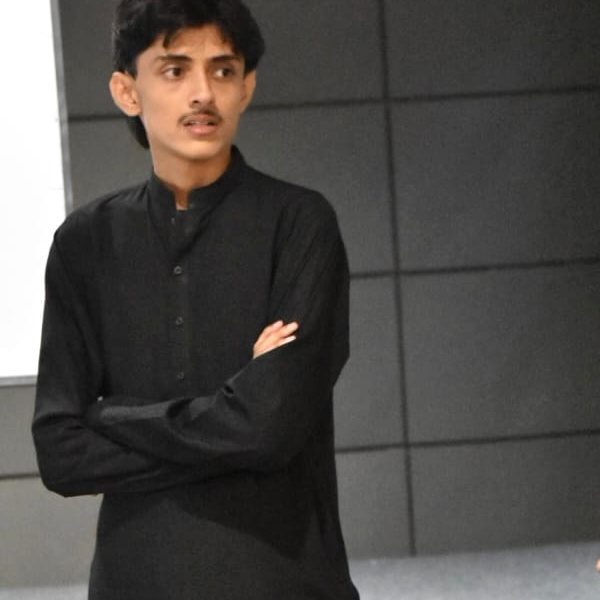
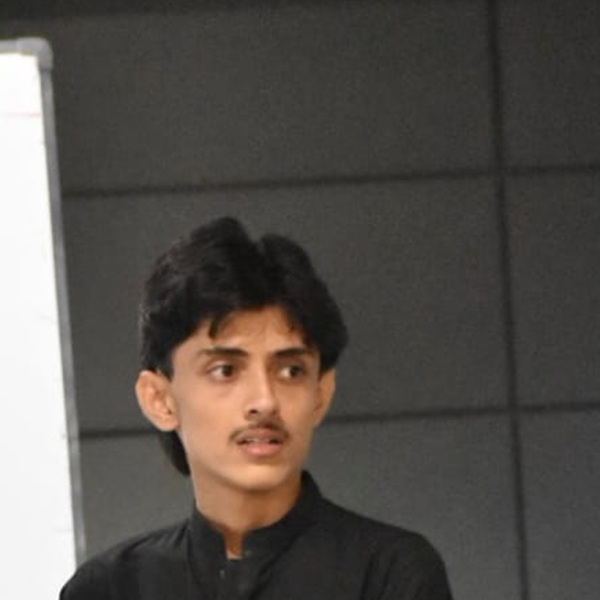
edited wb

diff --git a/src/components/ui/GlidingWhatsApp.tsx b/src/components/ui/GlidingWhatsApp.tsx
@@ -5,16 +5,16 @@ import { siteConfig } from "@/data/site";
 
 export const GlidingWhatsApp: React.FC = () => {
   const [isHovered, setIsHovered] = useState(false);
-  const whatsappNumber = siteConfig.donation.jazzcash.rawNumber; // 03075615688
-  const internationalNumber = "92" + whatsappNumber.replace(/^0/, "");
+  // Extract digits for wa.me format (e.g., "923701972002")
+  const rawNumber = siteConfig.contact.whatsapp.replace(/[^0-9]/g, "") || "923701972002";
   const defaultMessage = encodeURIComponent(
     "Assalam-o-Alaikum! I would like to get in touch with Ta'meer-e-Rekhta."
   );
-  const whatsappUrl = `https://wa.me/${internationalNumber}?text=${defaultMessage}`;
+  const whatsappUrl = `https://wa.me/${rawNumber}?text=${defaultMessage}`;
 
   return (
     <div
-      className="fixed bottom-6 right-6 z-50 flex items-center gap-3"
+      className="fixed bottom-6 right-6 z-50 flex items-center gap-3 select-none"
       onMouseEnter={() => setIsHovered(true)}
       onMouseLeave={() => setIsHovered(false)}
     >
@@ -23,14 +23,20 @@ export const GlidingWhatsApp: React.FC = () => {
         href={whatsappUrl}
         target="_blank"
         rel="noopener noreferrer"
-        className={`hidden sm:inline-flex items-center gap-2 px-3.5 py-2 rounded-full bg-white text-gray-800 text-xs font-semibold shadow-lg border border-emerald-100 transition-all duration-300 transform ${
+        className={`hidden sm:inline-flex items-center gap-2.5 px-4 py-2.5 rounded-full bg-white text-gray-800 text-xs font-semibold shadow-xl border border-emerald-100 transition-all duration-300 transform hover:shadow-2xl hover:border-emerald-300 ${
           isHovered
-            ? "opacity-100 translate-x-0"
+            ? "opacity-100 translate-x-0 scale-100"
             : "opacity-90 -translate-x-1 hover:translate-x-0"
         }`}
+        aria-label="Chat on WhatsApp"
       >
-        <span className="w-2 h-2 rounded-full bg-emerald-500 animate-ping" />
-        <span>Chat with us on WhatsApp</span>
+        <span className="relative flex h-2.5 w-2.5">
+          <span className="animate-ping absolute inline-flex h-full w-full rounded-full bg-emerald-400 opacity-75" />
+          <span className="relative inline-flex rounded-full h-2.5 w-2.5 bg-emerald-500" />
+        </span>
+        <span className="text-gray-700 font-semibold tracking-wide">
+          Chat with us on WhatsApp
+        </span>
       </a>
 
       {/* Floating Gliding Button */}
@@ -39,21 +45,27 @@ export const GlidingWhatsApp: React.FC = () => {
         target="_blank"
         rel="noopener noreferrer"
         aria-label="Chat with Ta'meer-e-Rekhta on WhatsApp"
-        className="relative group flex items-center justify-center w-14 h-14 rounded-full bg-[#25D366] text-white shadow-xl shadow-emerald-500/30 hover:shadow-emerald-500/50 hover:bg-[#20bd5a] transition-all duration-300 transform hover:scale-110 active:scale-95 animate-[glide_3s_ease-in-out_infinite]"
+        className="relative group flex items-center justify-center w-14 h-14 sm:w-15 sm:h-15 rounded-full bg-gradient-to-tr from-[#20bd5a] to-[#25D366] text-white shadow-xl shadow-emerald-500/40 hover:shadow-emerald-500/60 hover:from-[#1eb856] hover:to-[#22c75e] transition-all duration-300 transform hover:scale-110 active:scale-95 animate-glide"
         style={{
-          boxShadow: "0 10px 25px -5px rgba(37, 211, 102, 0.45)",
+          boxShadow: "0 10px 25px -4px rgba(37, 211, 102, 0.5), 0 4px 10px -2px rgba(37, 211, 102, 0.3)",
         }}
       >
         {/* Radar wave pulse ring */}
-        <span className="absolute -inset-1 rounded-full bg-[#25D366]/30 animate-ping pointer-events-none" />
+        <span className="absolute -inset-1 rounded-full bg-[#25D366]/30 animate-ping opacity-60 pointer-events-none" />
 
-        {/* Official WhatsApp SVG Logo */}
+        {/* Clean Official WhatsApp SVG Logo */}
         <svg
-          className="w-7 h-7 fill-current relative z-10"
+          className="w-7 h-7 sm:w-8 sm:h-8 fill-white relative z-10 transition-transform duration-300 group-hover:scale-105 drop-shadow-sm"
           viewBox="0 0 24 24"
+          fill="none"
           xmlns="http://www.w3.org/2000/svg"
         >
-          <path d="M17.507 14.307l-.009.075c-2.399-1.2-2.882-1.352-3.32-1.298-.43.053-.941.597-1.157.843-.215.247-.43.275-.788.106-.358-.17-1.512-.558-2.879-1.777-1.065-.95-1.785-2.126-1.996-2.485-.212-.359-.022-.553.157-.731.162-.16.358-.415.538-.623.18-.208.24-.356.359-.594.119-.239.06-.447-.03-.624-.089-.178-.797-1.921-1.093-2.632-.288-.693-.58-.598-.797-.609-.206-.01-.443-.012-.68-.012-.238 0-.623.089-.95.446-.326.357-1.248 1.22-1.248 2.975 0 1.755 1.277 3.45 1.456 3.69.179.239 2.513 3.839 6.089 5.383.851.368 1.516.588 2.034.752.855.271 1.633.233 2.248.141.686-.103 2.11-.862 2.408-1.695.297-.833.297-1.547.208-1.696-.088-.148-.327-.238-.685-.417zM12.012 21.84c-1.786 0-3.535-.48-5.067-1.39l-.364-.216-3.763.987 1.004-3.666-.237-.377A9.799 9.799 0 0 1 2.2 12.04c0-5.424 4.41-9.835 9.833-9.835 2.628 0 5.099 1.025 6.957 2.884 1.858 1.86 2.88 4.33 2.878 6.96-.002 5.425-4.414 9.791-9.856 9.791zm0-18.34C6.54 3.5 2.054 7.986 2.054 13.457c0 1.95.566 3.767 1.547 5.305l-1.601 5.85 5.986-1.571a9.88 9.88 0 0 0 4.026.859c5.472 0 9.957-4.485 9.957-9.956 0-2.66-1.036-5.16-2.918-7.042C17.168 4.02 14.672 3.5 12.012 3.5z" />
+          <path
+            fillRule="evenodd"
+            clipRule="evenodd"
+            d="M12.04 2C6.58 2 2.13 6.45 2.13 11.91C2.13 13.66 2.59 15.36 3.45 16.86L2.05 22L7.3 20.63C8.75 21.41 10.38 21.82 12.04 21.82C17.5 21.82 21.95 17.37 21.95 11.91C21.95 6.45 17.5 2 12.04 2ZM17.63 15.68C17.4 16.33 16.32 16.92 15.78 17C15.29 17.07 14.67 17.1 12.54 16.22C9.82 15.09 8.06 12.33 7.92 12.15C7.79 11.97 6.8 10.65 6.8 9.29C6.8 7.93 7.49 7.27 7.77 6.98C7.99 6.75 8.35 6.65 8.67 6.65C8.77 6.65 8.87 6.65 8.95 6.66C9.21 6.67 9.34 6.69 9.51 7.1C9.72 7.61 10.23 8.86 10.29 8.99C10.36 9.12 10.41 9.29 10.32 9.47C10.24 9.65 10.18 9.73 10.05 9.88C9.92 10.03 9.8 10.14 9.66 10.31C9.51 10.47 9.36 10.64 9.53 10.93C9.7 11.21 10.29 12.17 11.15 12.94C12.26 13.93 13.17 14.25 13.49 14.38C13.74 14.48 14.03 14.46 14.21 14.27C14.44 14.02 14.73 13.61 15.02 13.2C15.22 12.91 15.48 12.87 15.74 12.97C16.01 13.06 17.44 13.77 17.73 13.92C18.03 14.06 18.22 14.14 18.29 14.26C18.36 14.38 18.36 14.94 17.63 15.68Z"
+            fill="currentColor"
+          />
         </svg>
       </a>
     </div>

diff --git a/src/data/site.ts b/src/data/site.ts
@@ -42,8 +42,8 @@ export const siteConfig: SiteConfig = {
     "Ta'meer-e-Rekhta is a passionate youth-led organization working for Urdu Revival, Youth Leadership Events & Welfare of Mankind in Pakistan. We believe in preserving our cultural identity while serving humanity with compassion.",
   contact: {
     email: "taameer.e.rekhta@gmail.com",
-    phone: "0307-5615688",
-    whatsapp: "+92 307 5615688",
+    phone: "+92 370 1972002",
+    whatsapp: "+92 370 1972002",
     address: "Karachi, Pakistan",
     city: "Karachi",
     country: "Pakistan",
@@ -54,7 +54,7 @@ export const siteConfig: SiteConfig = {
     { name: "Instagram", href: "https://instagram.com/tameer_e_rekhta", icon: "Instagram" },
     { name: "Facebook", href: "https://facebook.com", icon: "Facebook" },
     { name: "LinkedIn", href: "https://linkedin.com", icon: "Linkedin" },
-    { name: "WhatsApp", href: "https://wa.me/923075615688", icon: "MessageCircle" },
+    { name: "WhatsApp", href: "https://wa.me/923701972002", icon: "MessageCircle" },
   ],
   donation: {
     jazzcash: {

diff --git a/src/data/team.ts b/src/data/team.ts
@@ -5,6 +5,7 @@ export interface TeamMember {
   category: "founder" | "president" | "core";
   bio: string;
   image: string;
+  imagePosition?: string;
   linkedin?: string;
   twitter?: string;
   email?: string;
@@ -18,7 +19,7 @@ export const founderMember: TeamMember = {
   category: "founder",
   bio: "Visionary founder of Ta'meer-e-Rekhta, dedicated to reviving the Urdu language, nurturing youth leadership, and driving humanitarian welfare across Pakistan.",
   image: "/images/team/zoraiz-ali.jpg",
-  email: "taameer.e.rekhta@gmail.com",
+  email: "zoraizali757@gmail.com",
 };
 
 export const presidentMember: TeamMember = {
@@ -28,7 +29,7 @@ export const presidentMember: TeamMember = {
   category: "president",
   bio: "Leading executive operations and organizational strategy, championing youth empowerment initiatives, community welfare drives, and cultural enrichment.",
   image: "/images/team/hafsa-arif.jpg",
-  email: "taameer.e.rekhta@gmail.com",
+  email: "arifhafsa446@gmail.com",
 };
 
 export const coreTeamMembers: TeamMember[] = [

diff --git a/src/components/donate/DonationSection.tsx b/src/components/donate/DonationSection.tsx
@@ -246,7 +246,7 @@ export default function DonationSection() {
           <div className="pt-4 flex flex-col sm:flex-row items-center justify-center gap-4">
             {/* WhatsApp Chat Button */}
             <a
-              href="https://wa.me/923075615688?text=Assalam-o-Alaikum!%20I%20have%20sent%20a%20donation%20for%20Ta%27meer-e-Rekhta.%20Here%20is%20my%20payment%20proof:"
+              href="https://wa.me/923701972002?text=Assalam-o-Alaikum!%20I%20have%20sent%20a%20donation%20for%20Ta%27meer-e-Rekhta.%20Here%20is%20my%20payment%20proof:"
               target="_blank"
               rel="noopener noreferrer"
               className="w-full sm:w-auto inline-flex items-center justify-center gap-2.5 px-6 py-3.5 rounded-full bg-[#25D366] hover:bg-[#20bd5a] text-white font-bold text-sm shadow-lg shadow-emerald-900/40 transition-transform hover:scale-105"

diff --git a/src/components/team/TeamSection.tsx b/src/components/team/TeamSection.tsx
@@ -57,6 +57,7 @@ export const LeadershipCard: React.FC<TeamCardProps> = ({
             fill
             sizes="(max-width: 640px) 160px, 180px"
             className="object-cover"
+            style={{ objectPosition: member.imagePosition || "center" }}
             priority={isFounder}
           />
         </div>
@@ -105,6 +106,7 @@ export const CoreMemberCard: React.FC<{ member: TeamMember }> = ({ member }) => 
           fill
           sizes="(max-width: 640px) 112px, 128px"
           className="object-cover transition-transform duration-500 group-hover:scale-105"
+          style={{ objectPosition: member.imagePosition || "center" }}
         />
       </div>
 

diff --git a/src/components/layout/Footer.tsx b/src/components/layout/Footer.tsx
@@ -94,7 +94,7 @@ export const Footer: React.FC = () => {
                 <Linkedin className="w-4 h-4" />
               </a>
               <a
-                href="https://wa.me/923075615688"
+                href="https://wa.me/923701972002"
                 target="_blank"
                 rel="noopener noreferrer"
                 className="w-9 h-9 rounded-full bg-white/5 border border-white/10 flex items-center justify-center text-gray-300 hover:text-white hover:bg-brand-emerald hover:border-brand-emerald transition-all"

diff --git a/src/app/api/donate/route.ts b/src/app/api/donate/route.ts
@@ -65,7 +65,7 @@ DONATION DETAILS:
 
 Thank you for supporting Ta'meer-e-Rekhta. Your contribution helps empower youth, revive Urdu literature, and serve humanity in Pakistan.
 
-For questions, contact us at: info@tameer-e-rekhta.org | WhatsApp: 0312-3456789
+For questions, contact us at: taameer.e.rekhta@gmail.com | WhatsApp: +92 370 1972002
 ==============================================
     `.trim();
 

diff --git a/src/components/team/TeamCard.tsx b/src/components/team/TeamCard.tsx
@@ -18,6 +18,7 @@ export const TeamCard: React.FC<TeamCardProps> = ({ member }) => {
           fill
           sizes="(max-width: 640px) 112px, 128px"
           className="object-cover transition-transform duration-500 group-hover:scale-105"
+          style={{ objectPosition: member.imagePosition || "center" }}
         />
       </div>
 
